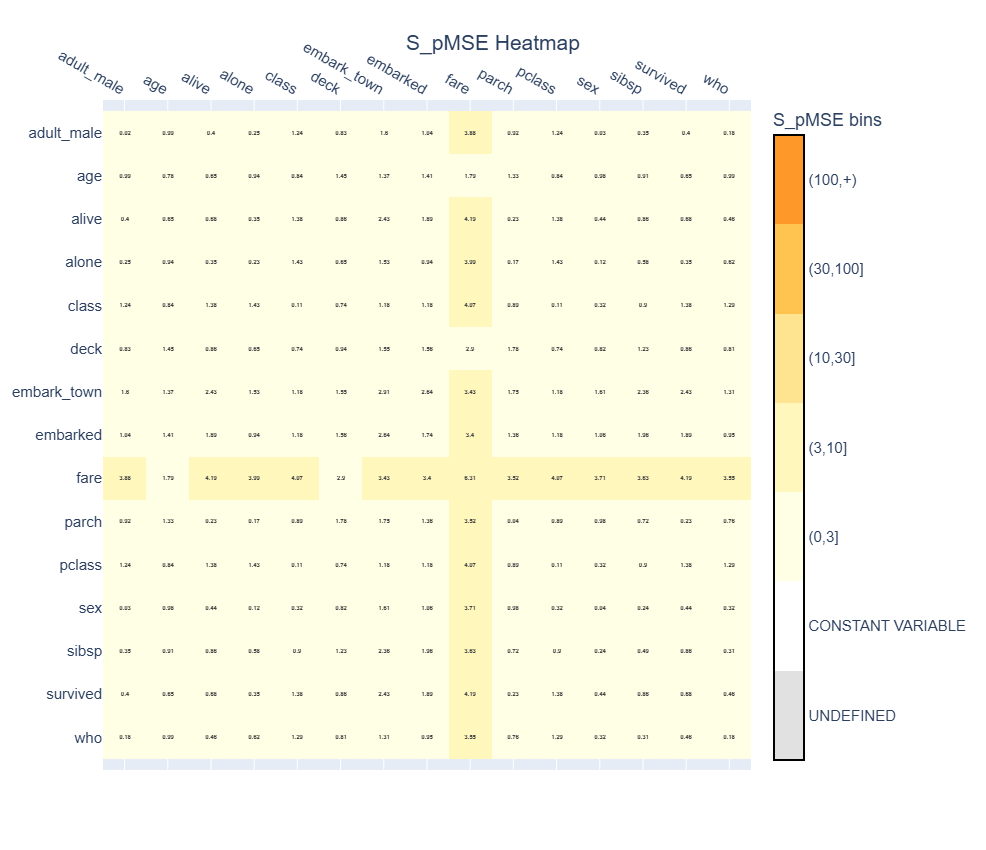
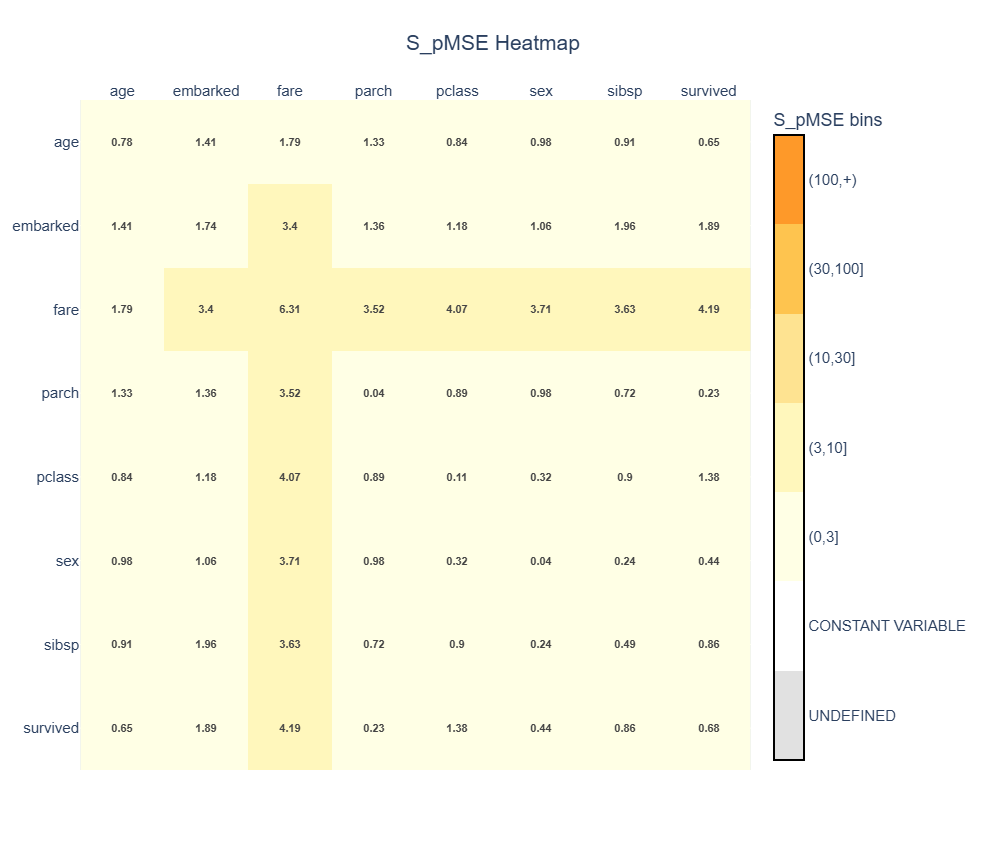
use less variables

diff --git a/docs/source/examples/changing_the_default_method.md b/docs/source/examples/changing_the_default_method.md
@@ -10,23 +10,12 @@ In this example, we will explore how to change the `default_syn_method` paramete
 For a complete overview of available synthesis methods, see [User Guide 3: Synthesis methods](../user_guides/3_synthesis_methods.md).
 
 ## Loading the data
-We start with the Titanic dataset that was also used in the previous examples. It contains both numerical and categorical variables, which allows us to see how different synthesis methods handle different types of data.
+We start with the Titanic dataset that was also used in the previous examples. It contains both numerical and categorical variables, which allows us to see how different synthesis methods handle different types of data. We remove some columns that contain information that is not useful for this example:
 ```python
 import seaborn as sns
 
 data = sns.load_dataset("titanic")
 
-data.head(3)
-```
-The first three rows are:
-|    |   survived |   pclass | sex    |   age |   sibsp |   parch |    fare | embarked   | class   | who   | adult_male   | deck   | embark_town   | alive   | alone   |
-|---:|-----------:|---------:|:-------|------:|--------:|--------:|--------:|:-----------|:--------|:------|:-------------|:-------|:--------------|:--------|:--------|
-|  0 |          0 |        3 | male   |    22 |       1 |       0 |  7.25   | S          | Third   | man   | True         | nan    | Southampton   | no      | False   |
-|  1 |          1 |        1 | female |    38 |       1 |       0 | 71.2833 | C          | First   | woman | False        | C      | Cherbourg     | yes     | False   |
-|  2 |          1 |        3 | female |    26 |       0 |       0 |  7.925  | S          | Third   | woman | False        | nan    | Southampton   | yes     | True    |
-
-Before synthesis, we remove some columns that contain information that is not useful for this example:
-```python
 data = data[
     [
         "survived",
@@ -39,7 +28,16 @@ data = data[
         "embarked",
     ]
 ]
+
+data.head(3)
 ```
+The first three rows are:
+|    |   survived |   pclass | sex    |   age |   sibsp |   parch |    fare | embarked   
+|---:|-----------:|---------:|:-------|------:|--------:|--------:|--------:|:-----------|
+|  0 |          0 |        3 | male   |    22 |       1 |       0 |  7.25   | S          |
+|  1 |          1 |        1 | female |    38 |       1 |       0 | 71.2833 | C          |
+|  2 |          1 |        3 | female |    26 |       0 |       0 |  7.925  | S          |
+
 
 ## Using the default CART synthesis method
 The default synthesis method of synthpop-py is CART. Therefore, the following `Synthesiser` uses CART automatically:
